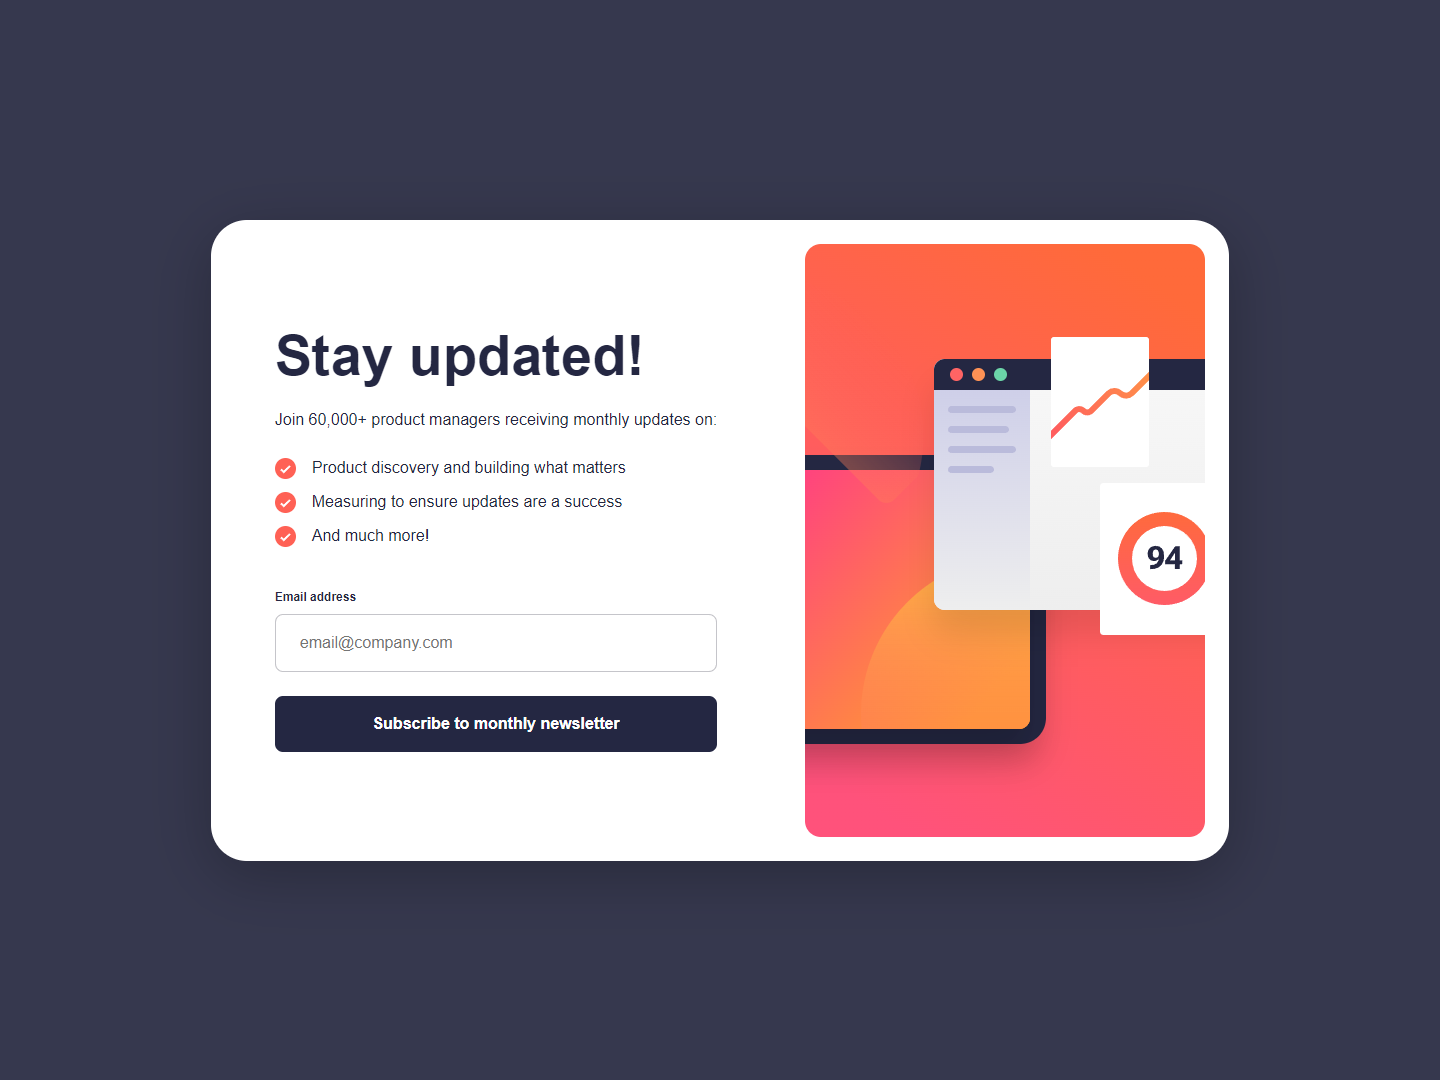
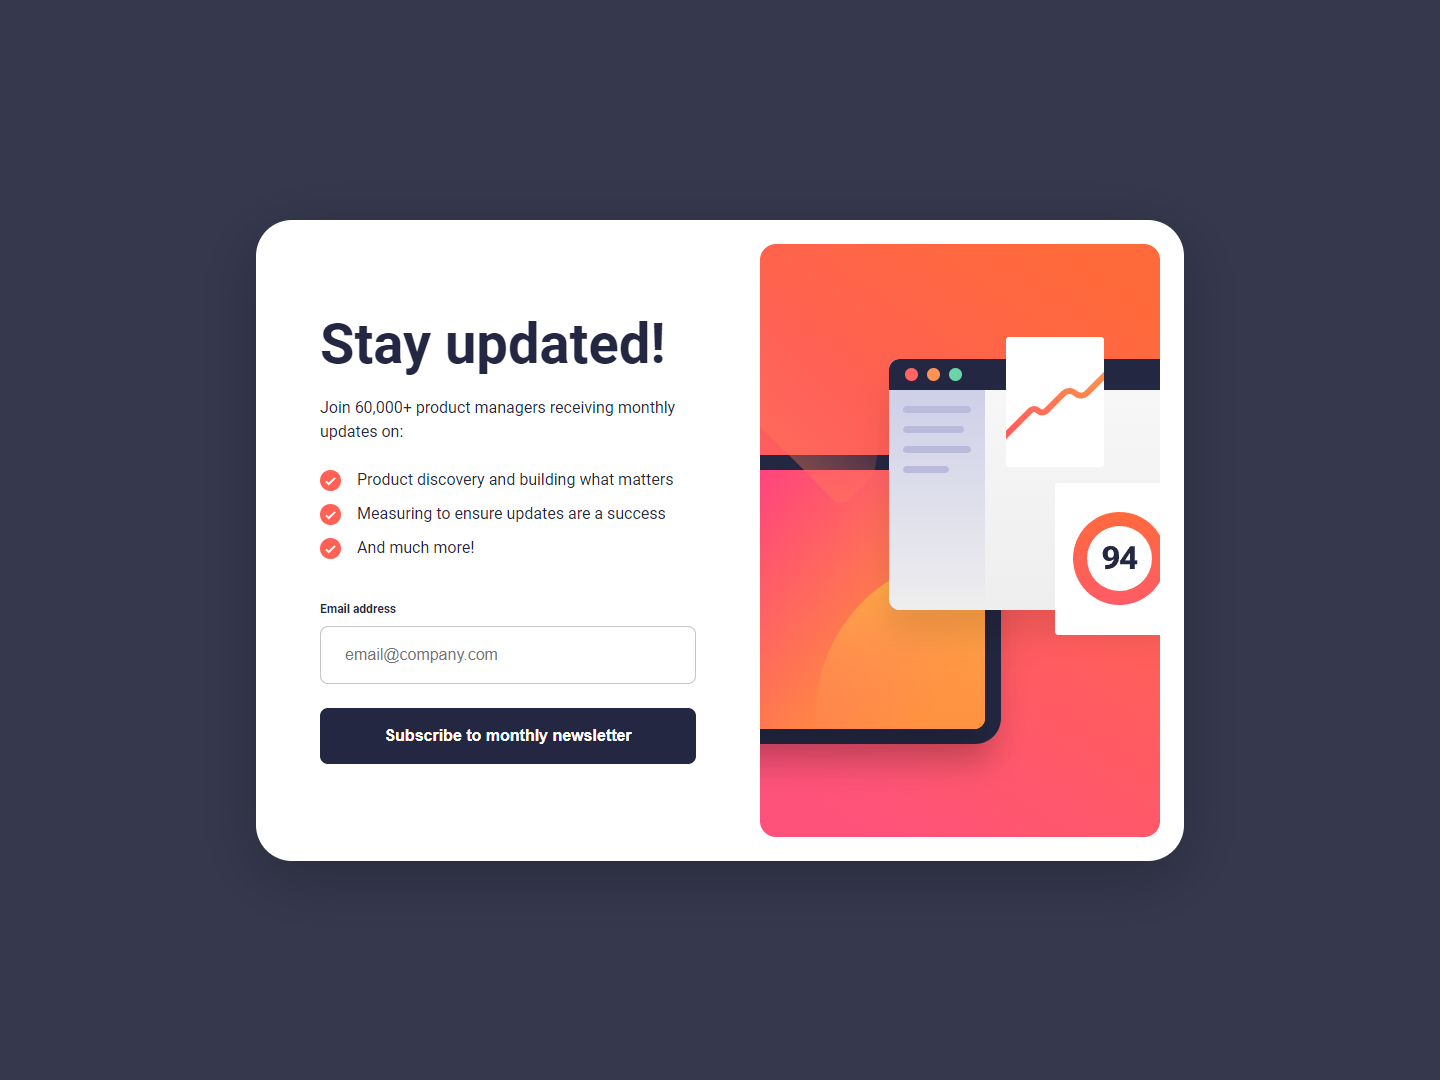
fixed max width form wrapper

Changed region(s): [[0.125, 0.1833, 0.875, 0.7944]]

diff --git a/015_news-signup/dist/assets/index-f89112fb.css b/015_news-signup/dist/assets/index-f89112fb.css
@@ -1,0 +1,1 @@
+@import"https://fonts.googleapis.com/css2?family=Roboto:wght@400;700&display=swap";*{margin:0;padding:0;box-sizing:border-box}body{font-family:Roboto,sans-serif;font-size:1rem;line-height:1.5rem;font-weight:400;background-color:#36384e;height:100dvh;display:flex;flex-direction:row;align-items:center;justify-content:center;color:#242742}.form-wrapper{max-width:58rem;margin:0 2rem;background-color:#fff;box-shadow:0 .9375rem 3.75rem #00000040;border-radius:2.25rem;display:flex;flex-direction:row;align-items:center;justify-content:space-between}@media screen and (max-width: 800px){.form-wrapper{flex-direction:column-reverse;margin:0;border-radius:0;height:100dvh}}.form-container{margin:0 4rem}@media screen and (max-width: 800px){.form-container{margin:0 1.5rem}}.form-container h1{font-size:3.5rem;font-weight:700;line-height:3.5rem;margin-bottom:1.5rem}@media screen and (max-width: 800px){.form-container h1{font-size:2.5rem;line-height:2.5rem}}.form-container p{margin-bottom:1.5rem}.form-container ul{list-style:none;margin-bottom:2.5rem}.form-container li:before{content:url(./icon-list-6857b62e.svg);height:21px;width:21px;margin-right:1rem;display:inline-block}.form-container li{display:flex;flex-direction:row;align-items:center}@media screen and (max-width: 800px){.form-container li{align-items:flex-start}}.form-container li:not(:last-child){margin-bottom:.625rem}form{display:flex;flex-direction:column}form div{display:flex;flex-direction:row;justify-content:space-between;margin-bottom:.5rem}form label{font-size:.75rem;font-weight:700;line-height:1.125rem}form .error-message{font-style:normal;font-weight:700;font-size:12px;line-height:150%;text-align:right;color:#ff6155;margin:0}form input{font-size:1rem;line-height:1.5rem;padding:1rem 1.5rem;border:1px solid rgba(25,24,43,.25);border-radius:.5rem;margin-bottom:1.5rem}form button:hover{background:linear-gradient(204.47deg,#ff6a3a 0%,#ff527b 100%);box-shadow:0 16px 32px #ff615580}@media screen and (max-width: 800px){form button{margin-bottom:2.5rem}}.image-container{margin:1.5rem 1.5rem 1.5rem 0}@media screen and (max-width: 800px){.image-container{margin:0 0 2.5rem;width:100%}}.image-container img{display:block}@media screen and (max-width: 800px){.image-container img{width:100%;object-fit:cover}}.success-message{padding:48px 4rem 4rem;max-width:31.5rem;background-color:#fff;box-shadow:0 .9375rem 3.75rem #00000040;border-radius:2.25rem;display:flex;flex-direction:column;justify-content:center;align-items:flex-start}@media screen and (max-width: 800px){.success-message{width:100%;height:100dvh;padding:2.5rem 1.5rem;justify-content:space-between;border-radius:0}}@media screen and (max-width: 800px){.success-message div{margin-top:2rem}}.success-message img{margin-bottom:2.5rem}.success-message h2{margin-bottom:1.5rem;font-weight:700;font-size:2.5rem;line-height:100%}@media screen and (max-width: 800px){.success-message h2{font-size:2.5rem}}.success-message p{margin-bottom:2.5rem}.success-message button{width:100%}.button-style{color:#fff;background-color:#242742;padding:1rem;font-weight:700;line-height:24px;border:none;border-radius:.5rem;font-size:1rem;cursor:pointer}.error{background-color:#ff615526;border:1px solid #ff6155;color:#ff6155}.visible{display:block}.hidden{display:none}

diff --git a/015_news-signup/dist/index.html b/015_news-signup/dist/index.html
@@ -18,8 +18,8 @@
     </title>
 
     <!-- Feel free to remove these styles or customise in your own stylesheet 👍 -->
-    <script type="module" crossorigin src="./assets/index-537d0a6d.js"></script>
-    <link rel="stylesheet" href="./assets/index-3bf67fcf.css">
+    <script type="module" crossorigin src="./assets/index-5bb6c1f5.js"></script>
+    <link rel="stylesheet" href="./assets/index-f89112fb.css">
   </head>
   <body>
     <main>

diff --git a/015_news-signup/styles/style.scss b/015_news-signup/styles/style.scss
@@ -23,6 +23,7 @@ body {
 }
 
 .form-wrapper {
+  max-width: 58rem;
   margin: 0 2rem;
   background-color: white;
   box-shadow: 0px 0.9375rem 3.75rem rgba(0, 0, 0, 0.25);
@@ -133,7 +134,7 @@ form {
 }
 
 .image-container {
-  margin: 1.5rem;
+  margin: 1.5rem 1.5rem 1.5rem 0;
 
   @media screen and (max-width: 800px) {
     margin: 0 0 2.5rem 0;
